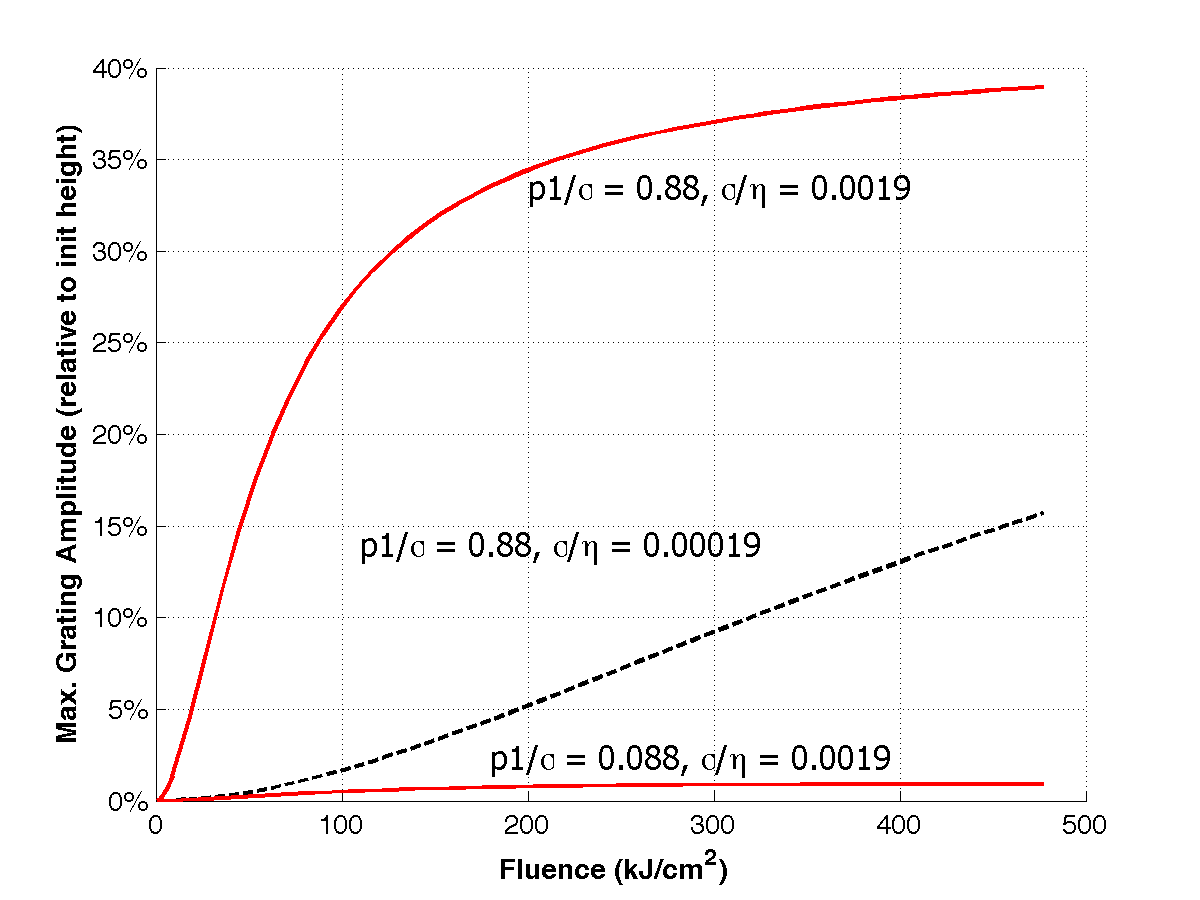
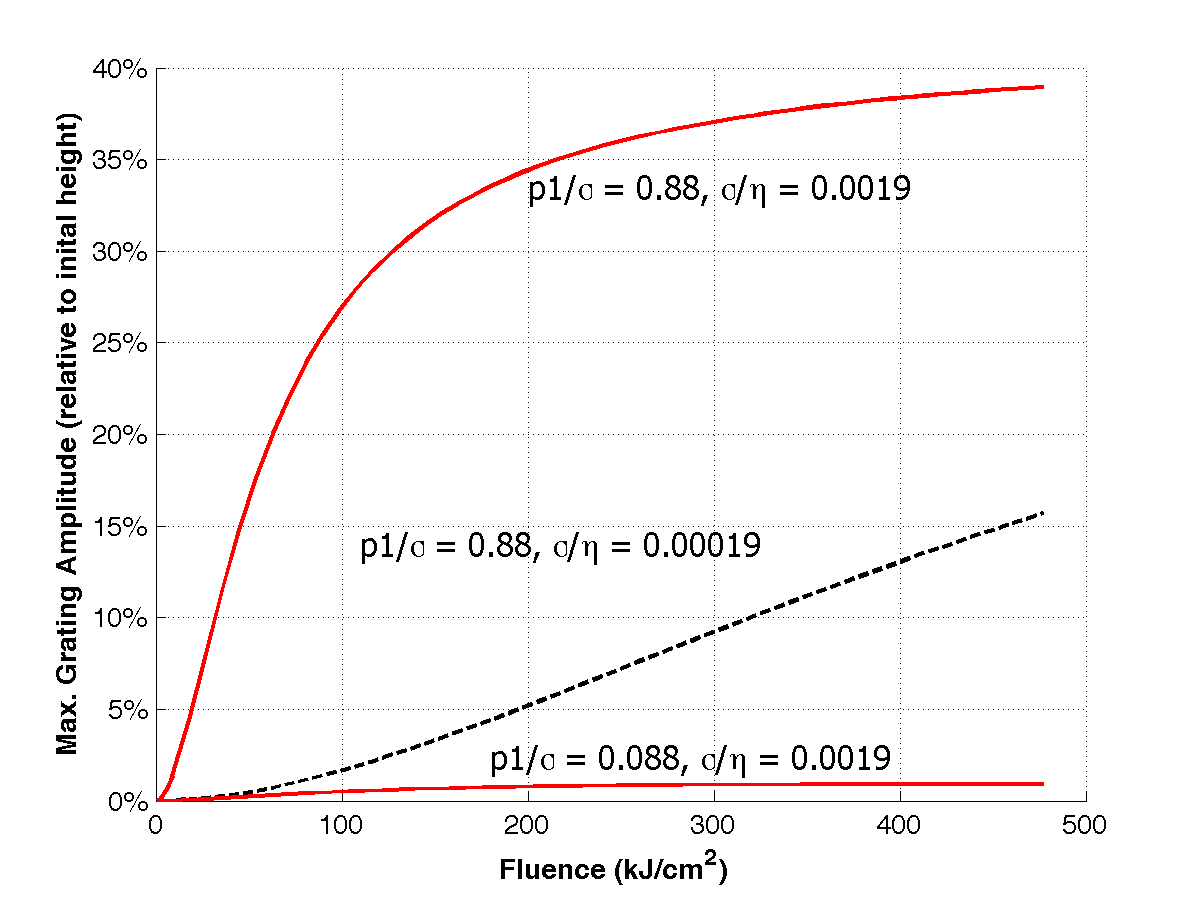
Y axis label modification change

Changed region(s): [[0.0308, 0.1244, 0.0925, 0.84]]

diff --git a/dataplot.m b/dataplot.m
@@ -50,7 +50,7 @@ text(180, 0.024, 'p1/\sigma = 0.088, \sigma/\eta = 0.0019','fontsize', 16, 'font
 % plot(f, abs(h21 - 2)/2, 'g--', 'linewidth', 1);
 hold off;
 xlabel('Fluence (kJ/cm^2)', 'fontSize', 14, 'fontWeight', 'bold');
-ylabel('Max. Grating Amplitude (relative to init height)', 'fontSize', 14, 'fontWeight', 'bold');
+ylabel('Max. Grating Amplitude (relative to inital height)', 'fontSize', 14, 'fontWeight', 'bold');
 
 set(gca, 'FontSize', 14);
 h = gca;
